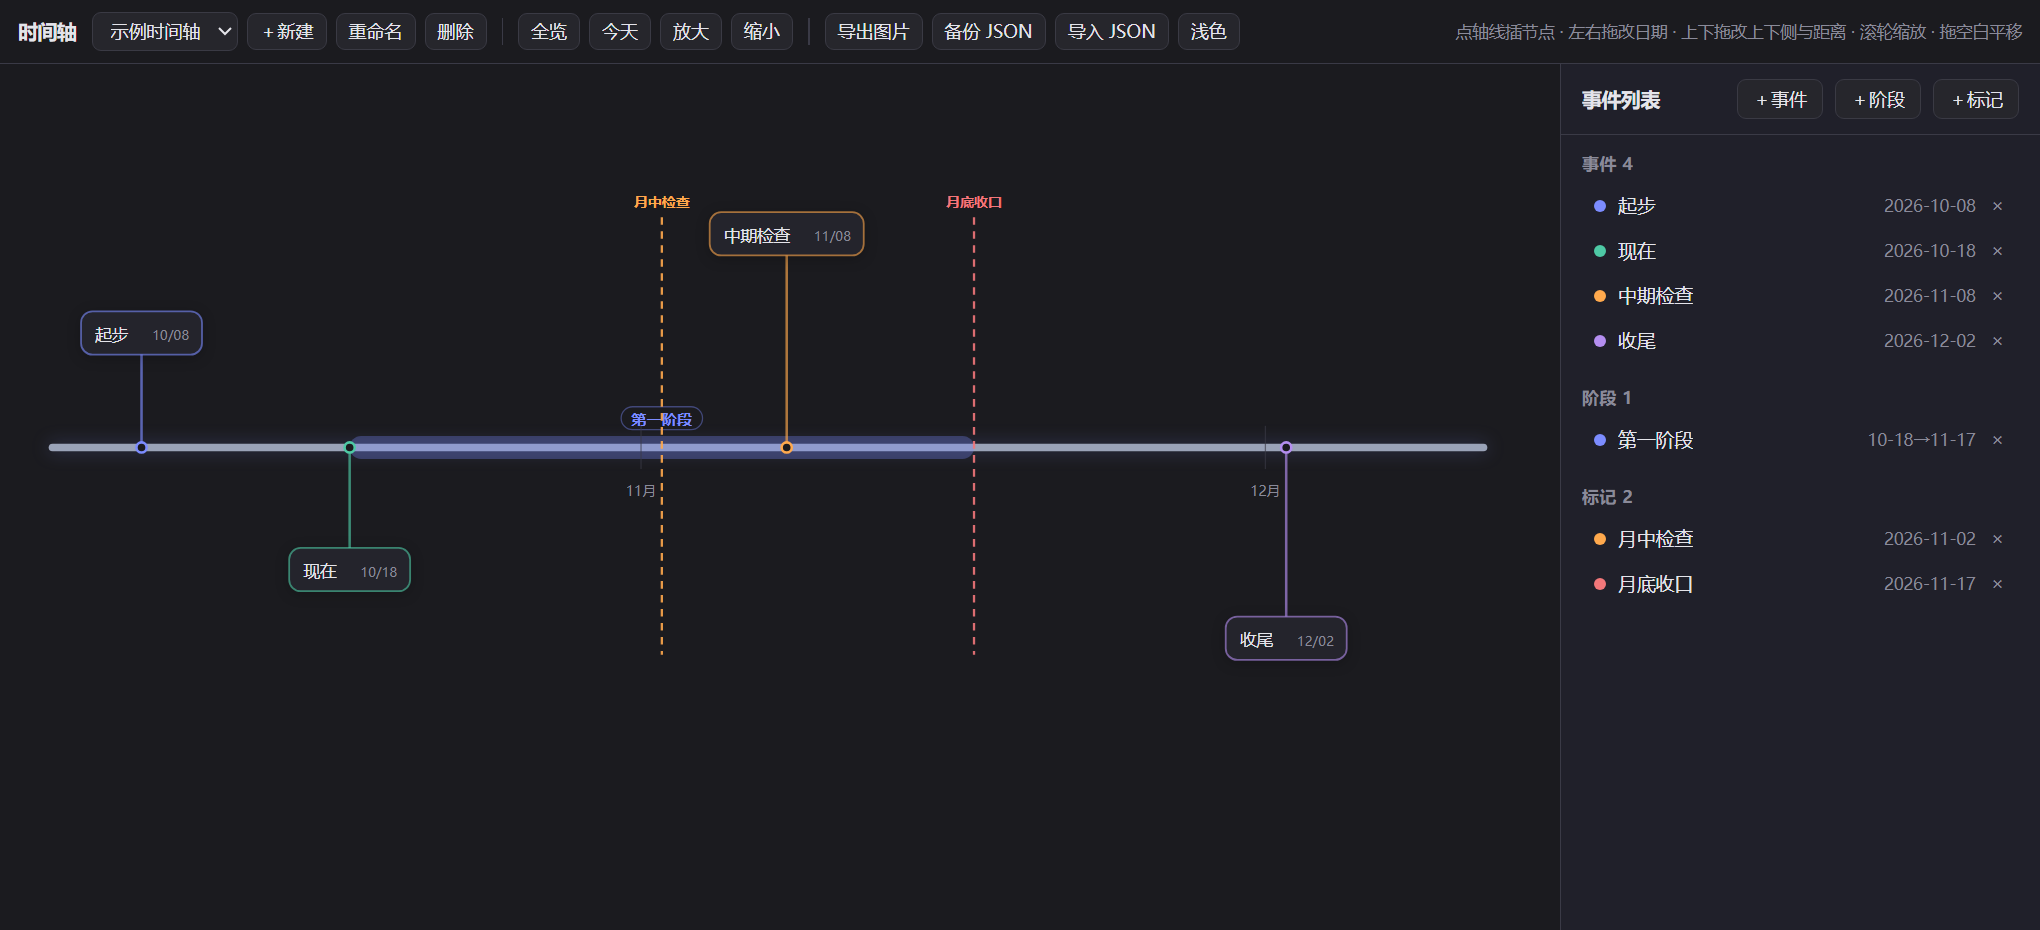
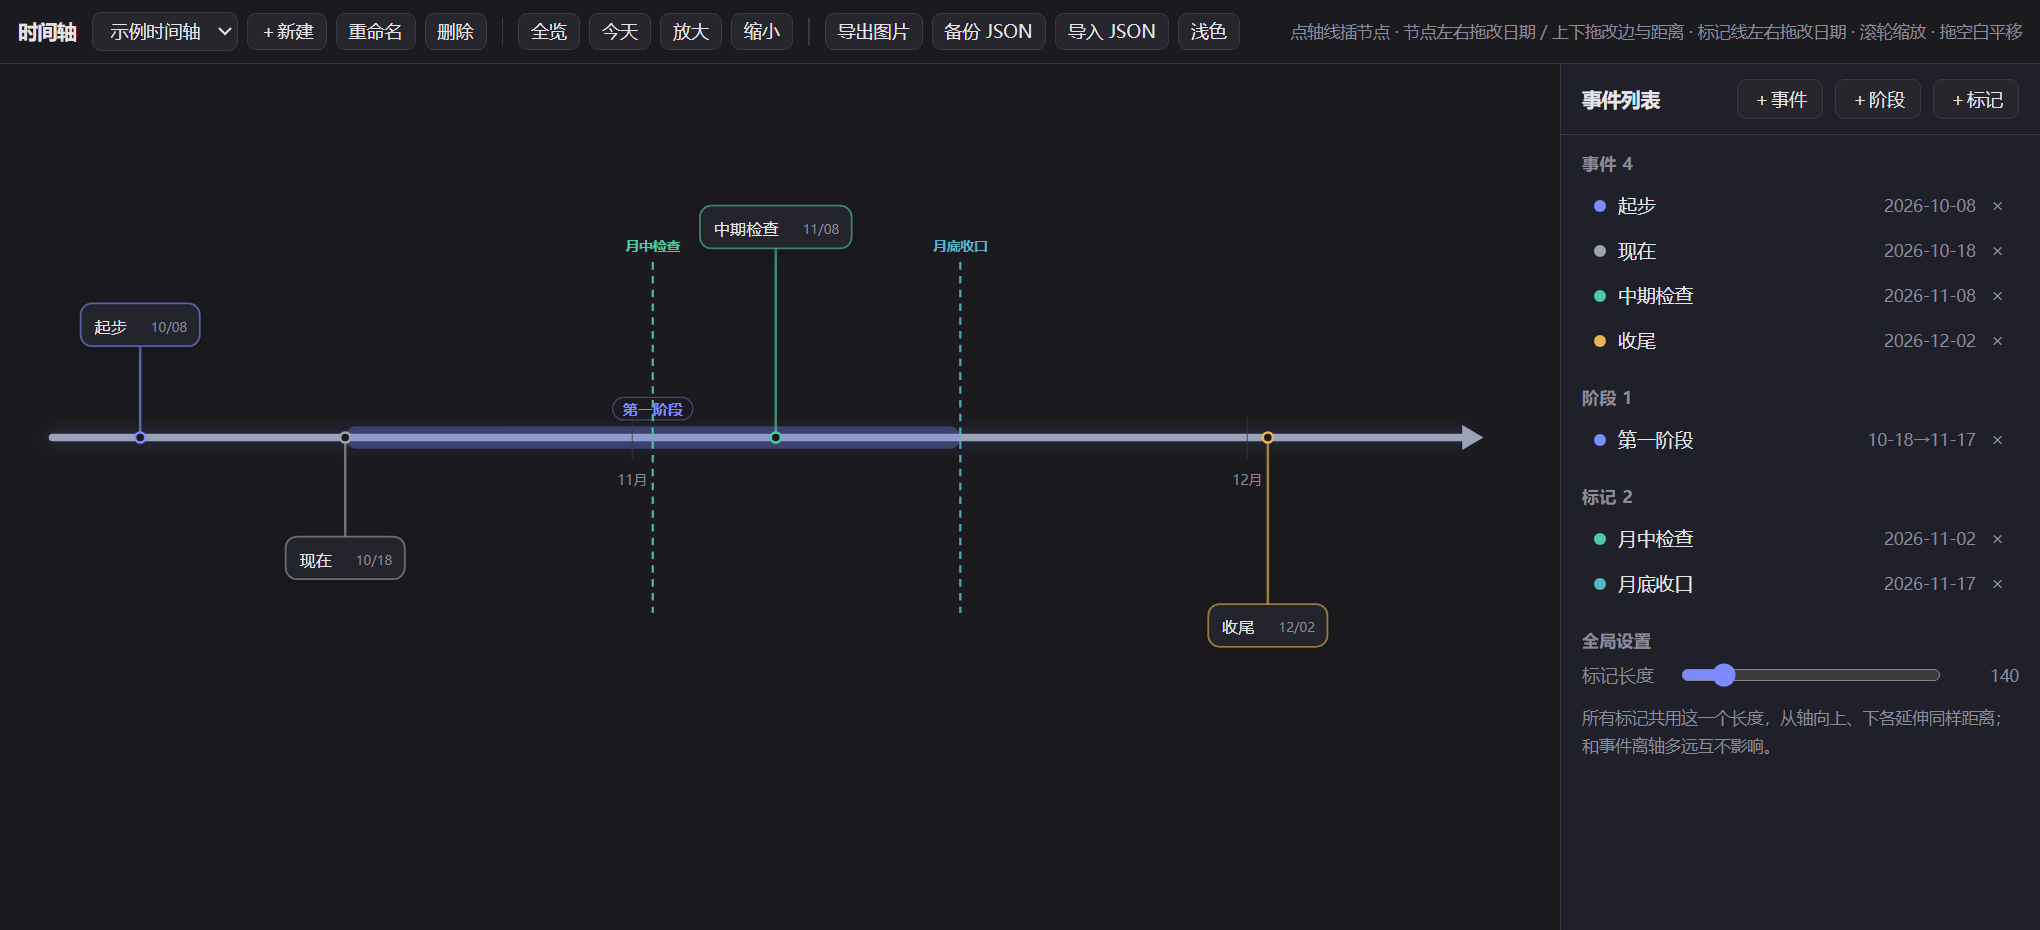
docs: refresh screenshots for arrow, shared marker length and color picker; add light theme shot

diff --git a/README.en.md b/README.en.md
@@ -4,7 +4,9 @@ English | [中文](README.md)
 
 A **double-click-and-use** interactive timeline in a single HTML file. Zero dependencies, no build step, works offline. Lay out a plan with the mouse in the browser and export a PNG for notes or sharing.
 
-![preview](screenshots/preview-dark.png)
+![dark theme](screenshots/preview-dark.png)
+
+![light theme](screenshots/preview-light.png)
 
 ## Features
 

diff --git a/README.md b/README.md
@@ -4,7 +4,9 @@
 
 一个**双击即用**的交互式时间轴工具：单文件 HTML、零依赖、离线可用。用鼠标在浏览器里直接排计划，导出一张 PNG 就能贴进笔记或发给别人。
 
-![预览](screenshots/preview-dark.png)
+![深色主题](screenshots/preview-dark.png)
+
+![浅色主题](screenshots/preview-light.png)
 
 ## 特性
 
